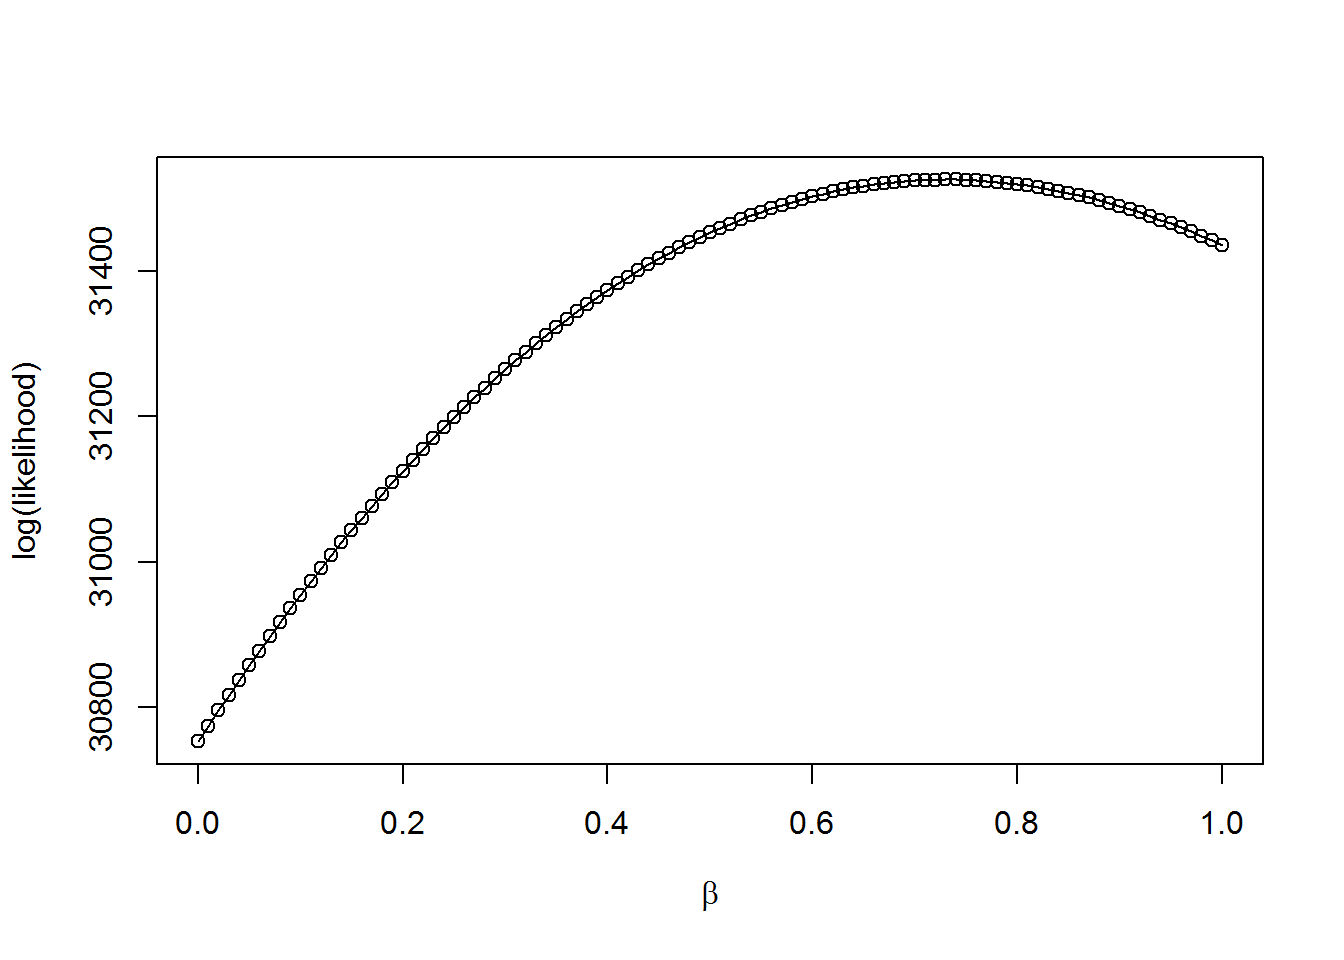
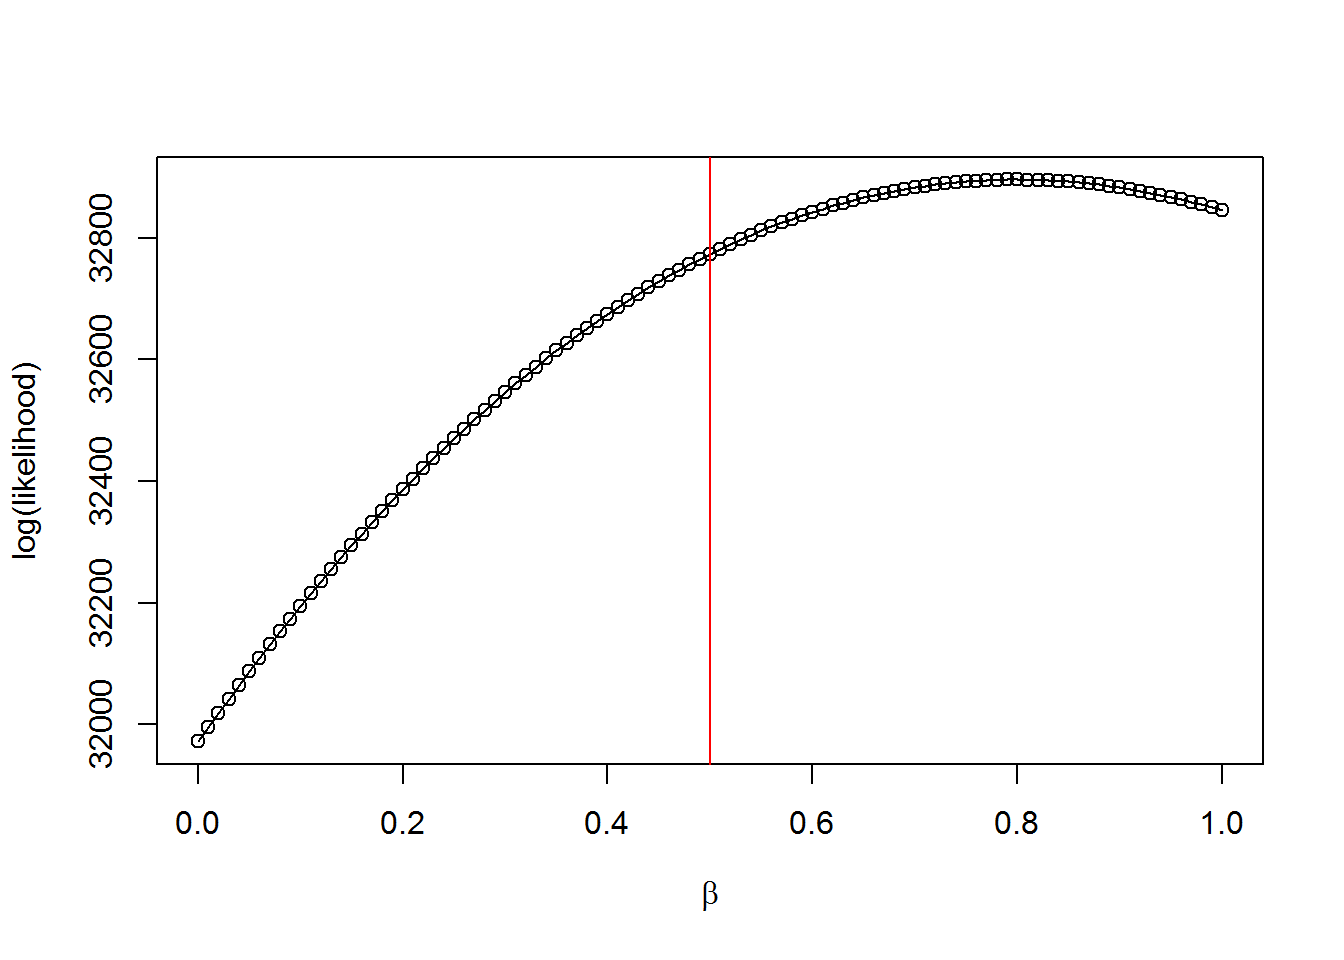
0401

diff --git a/docs/simulation-study.html b/docs/simulation-study.html
@@ -312,7 +312,7 @@ shared across the workflowr files. -->
 <!-- Update knitr chunk options -->
 <!-- Insert the date the file was last updated -->
 <p><strong>Last updated:</strong> 2017-03-31 <!-- Insert the code version (Git commit SHA1) if Git repository exists and R
- package git2r is installed --> <strong>Code version:</strong> 8c21f27</p>
+ package git2r is installed --> <strong>Code version:</strong> 3cdc5b9</p>
 <!-- Add your analysis here -->
 <div id="set-up" class="section level2">
 <h2>Set up</h2>
@@ -376,59 +376,9 @@ num.group=length(split.ratio)-1
 anno.num=1</code></pre>
 <div id="case-1-one-annotation-feature" class="section level3">
 <h3>case 1: one annotation feature</h3>
-<p>This is the simplest case in that every variant has one annotation feature if any. Use large <span class="math inline">\(\beta=0.5\)</span> to make all variant being causal. Set <span class="math inline">\(\bar{\gamma}=10\)</span> to make signal strong with burden close to 10. If the feature has one dimension, the objective likelihood function would be simple to be optimized using common R packages.</p>
-<p><img src="figure/simulation-study.Rmd/main%20algorithm-1.png" width="672" style="display: block; margin: auto;" /></p>
-<pre><code>1 is running 
-2 is running 
-3 is running 
-4 is running 
-5 is running 
-6 is running 
-7 is running 
-8 is running 
-9 is running 
-10 is running 
-11 is running 
-12 is running 
-13 is running 
-14 is running 
-15 is running 
-16 is running 
-17 is running 
-18 is running 
-19 is running 
-20 is running 
-21 is running 
-22 is running 
-23 is running 
-24 is running 
-25 is running 
-26 is running 
-27 is running 
-28 is running 
-29 is running 
-30 is running 
-31 is running 
-32 is running 
-33 is running 
-34 is running 
-35 is running 
-36 is running 
-37 is running 
-38 is running 
-39 is running 
-40 is running 
-41 is running 
-42 is running 
-43 is running 
-44 is running 
-45 is running 
-46 is running 
-47 is running 
-48 is running 
-49 is running 
-50 is running </code></pre>
-<p><img src="figure/simulation-study.Rmd/main%20algorithm-2.png" width="672" style="display: block; margin: auto;" /></p>
+<p>This is the simplest case in that every variant has one annotation feature if any. Set <span class="math inline">\(\beta=0.5\)</span>, <span class="math inline">\(\bar{\gamma}=10\)</span> to make signal strong with burden close to 10; 80% elements of of Ajk are 1. If the feature has one dimension, the objective likelihood function would be simple to be optimized using common R packages. The log likelihood as a function of <span class="math inline">\(\beta\)</span> (true <span class="math inline">\(\beta=0.5\)</span>)is as <img src="figure/loglikelihood.png" alt="loglikelihood" />.</p>
+<p>This plot tells us the likelihood only has one mode in one dimension case. It looks like <span class="math inline">\(\beta\)</span> is overestimated by R package-BFGS. With the fixed randomly generated data, run BFGS 50 times with random initials. The mean of <span class="math inline">\(\hat{\beta}=0.7631\)</span> and SD=2.344796e-05.</p>
+<p>Important Note: <span class="math inline">\(\beta\)</span> cannot be set too large, say &gt;10 because it controls the probability of a variant of being causal. Consider an extreme case where all variants are truly causal risk variants. The likelihood of the data is close to the product of Bayes factor of every variant, free of <span class="math inline">\(\beta\)</span> value. Any large enough <span class="math inline">\(\beta\)</span> will give the same likelihood.</p>
 </div>
 </div>
 <div id="session-information" class="section level2">
